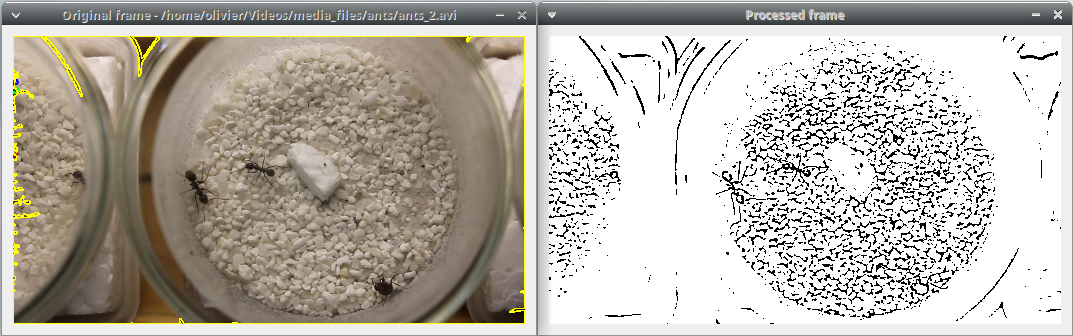
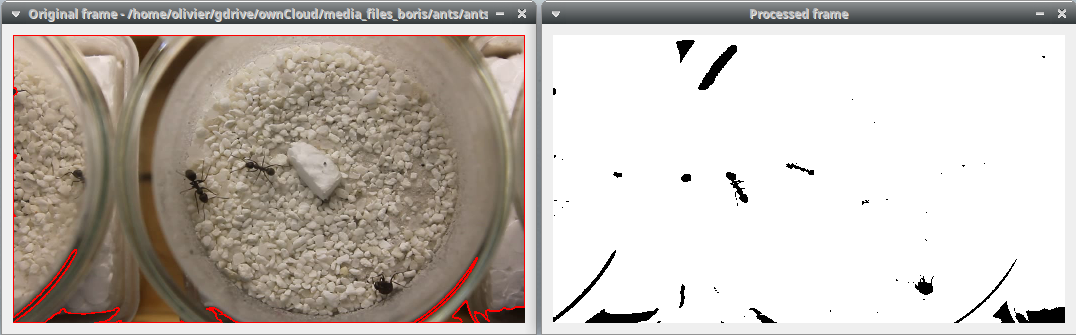
some work

diff --git a/index.rst b/index.rst
@@ -56,8 +56,9 @@ Another window called **Processed frame** will also be displayed (right window).
 
 
 .. image:: images/video_loaded.png
-   :alt: DORIS main window
+   :alt: video loaded
    :width: 100%
+
 
 The **Processed frame** window displays the frame after conversion to binary image (b/w), application of a blur filter
 and eventually conversion to negative.
@@ -67,6 +68,15 @@ DORIS will detect the white objects in the **Processed frame** window.
 
 In this case you will have to check the **Invert checkbox** to convert to negative. The dark objects will be displayed in white
 and the light objects in black.
+
+
+.. image:: images/video_loaded_invert.png
+   :alt: DORIS main window
+   :width: 100%
+
+
+
+
 
 
 
